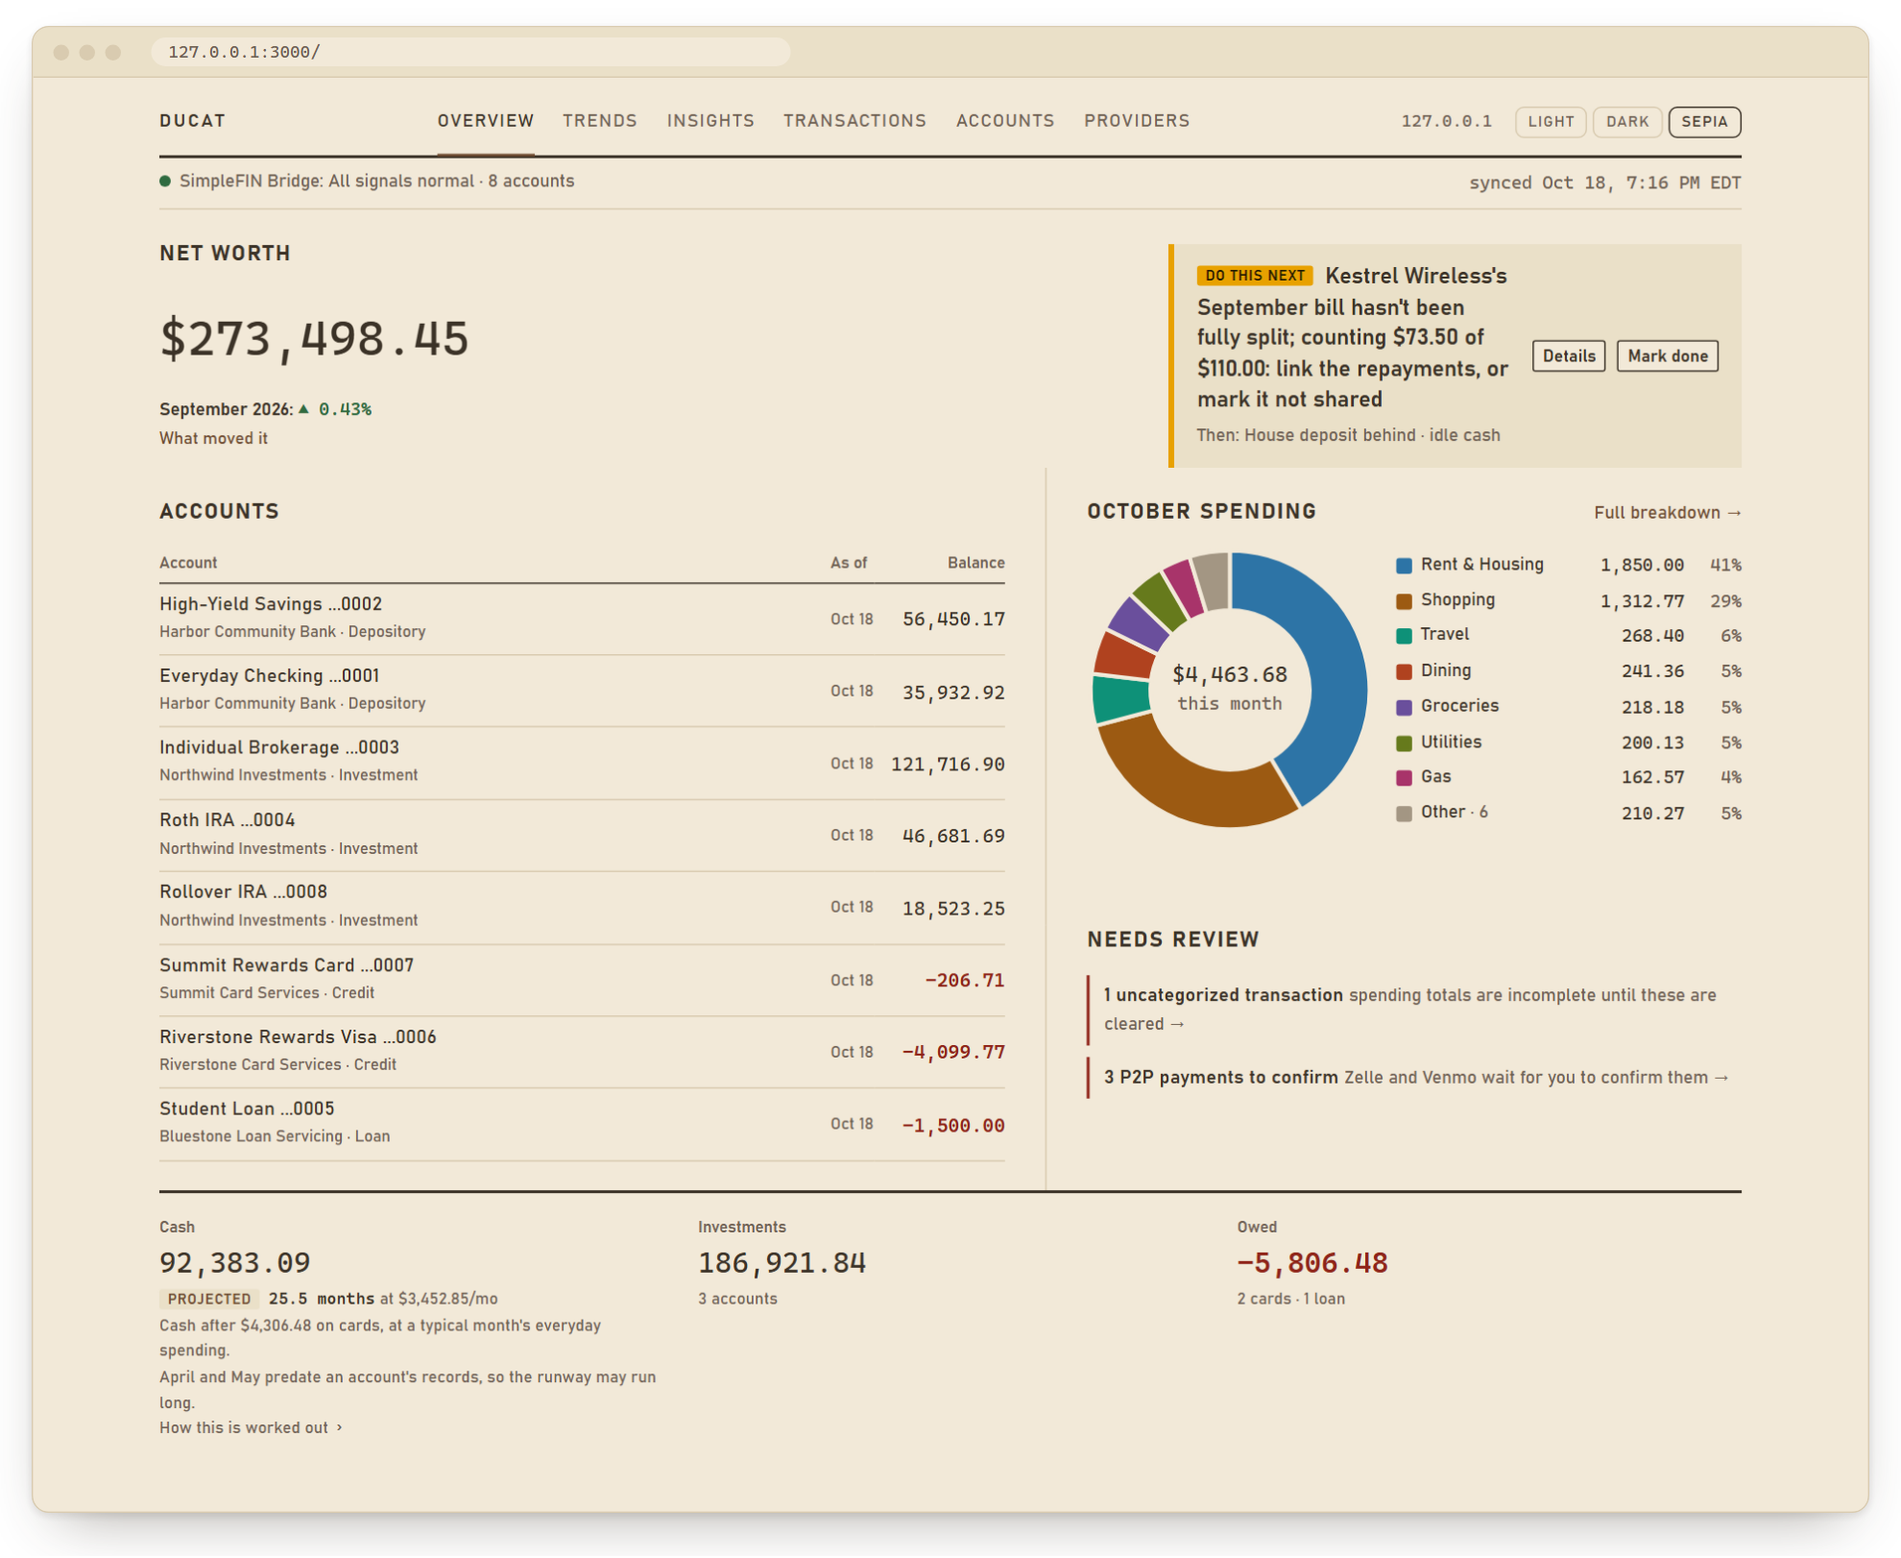
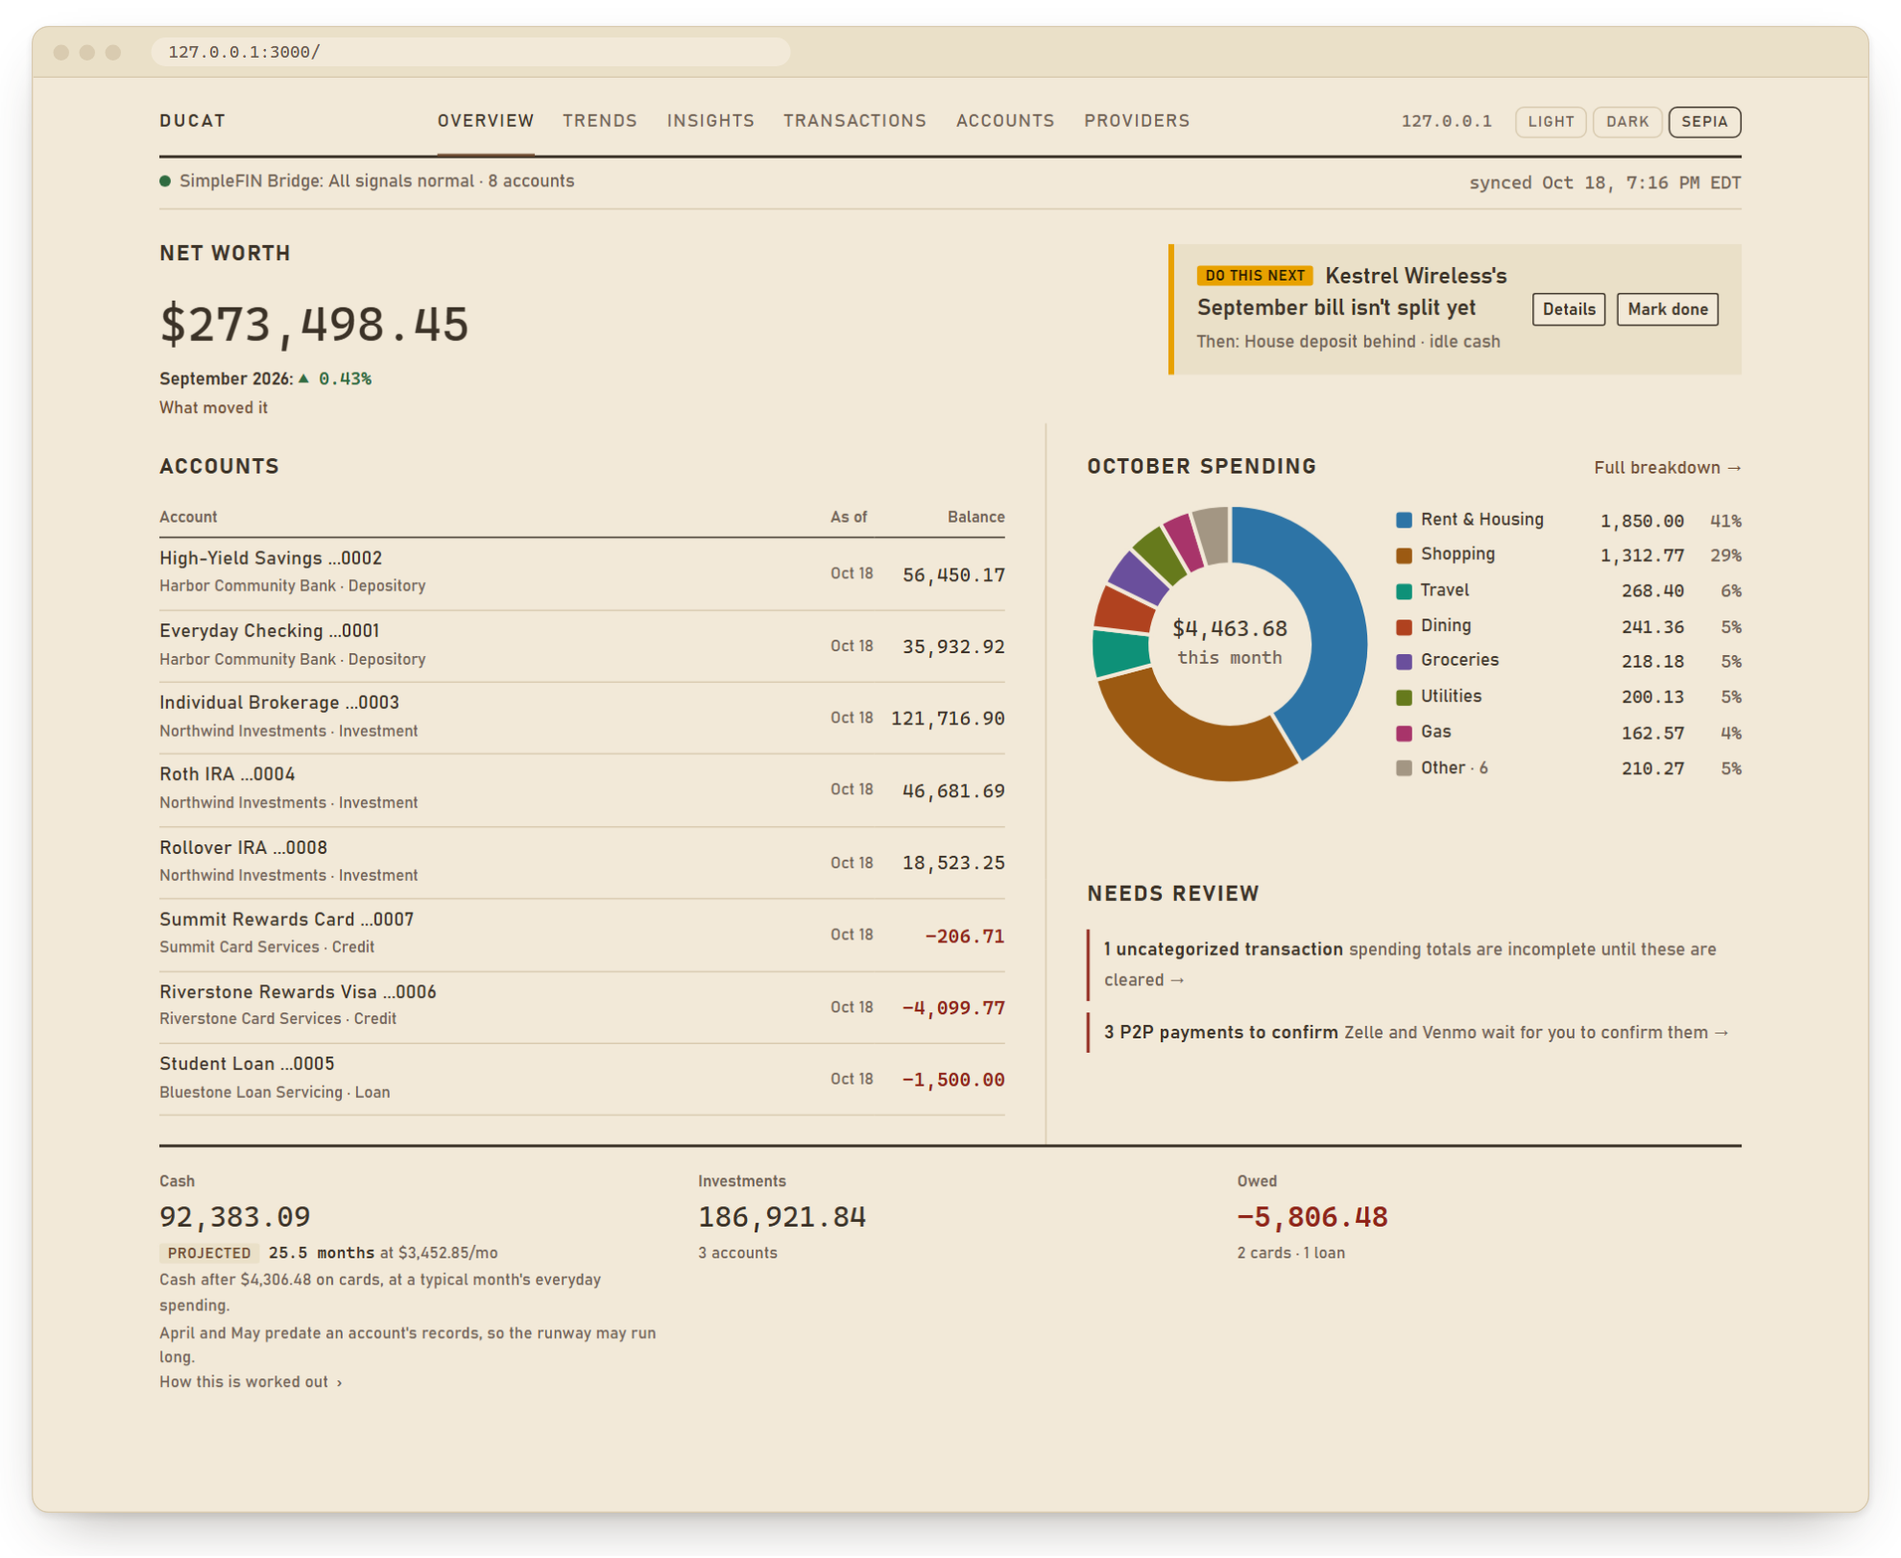
Judge a split as a part of the bill, and keep half-linked bills out of the share
From review of the shared-plans change:
- A share held as fixed dollars read every bill after a price rise as
  short, so a rise split the same way raised a false "Not split" and two
  of them ended the sharing. The sample is now each settled net as a part
  of its own bill, and the share is that part of the newest bill.
- A newest bill linked only in part entered the sample, and between two
  the larger set the share near two thirds of the bill. It now joins only
  once repaid as the sample expects; it still counts toward two repaid
  bills in a row.
- The reset after two short bills kept the last one's "repaid", so one
  repaid bill re-shared the plan. Sharing now starts over from two.
- The alert says only what is true ("hasn't been split yet"; spending
  counts it in full until the repayments are linked), and Do this next
  leads with a short line.

diff --git a/src/lib/insights/sharedPlans.ts b/src/lib/insights/sharedPlans.ts
@@ -22,11 +22,17 @@ import type { TxnData } from './types';
  *   has arrived. The newest bill with nothing linked is still waiting.
  * - A plan becomes SHARED when two settled bills in a row both had linked
  *   repayments. One repaid bill is a one-off reimbursement, not a split.
- * - A shared plan bills its SHARE: the middle of its last few settled nets,
- *   never a mean (between two, the larger, so a bill half-repaid so far never
- *   shrinks the share below what it costs).
+ * - A shared plan bills its SHARE as a PART of the bill: the middle of its
+ *   last few settled nets, each as a fraction of its own bill, never a mean
+ *   (between two, the larger), times the newest bill. A split is the same
+ *   fraction whatever the price, so a price rise split the same way stays
+ *   shared and the share follows it; dollars fixed at the old price read
+ *   every bill after a rise as short.
+ * - The newest bill joins the sample only once it is repaid as the sample
+ *   expects: half-linked so far, it would raise the share until the second
+ *   repayment lands. It still counts toward two repaid bills in a row.
  * - Fail safe: once the next bill has arrived, a bill repaid less than
- *   expected (bill less the share, within a small tolerance) is UNSPLIT. It
+ *   expected (the bill less its share, within a small tolerance) is UNSPLIT. It
  *   leaves the share's sample and is named so the operator can link the rest
  *   or say it was not shared. Two unsplit bills in a row and the plan is no
  *   longer shared: it goes back to full price with nothing to answer.
@@ -52,9 +58,9 @@ export interface PlanBill {
   repaid: number;
 }
 
-/** The middle of the recent nets; between two, the larger. */
-function middle(nets: number[]): number {
-  const s = nets.slice(-SHARE_SAMPLE).sort((a, b) => a - b);
+/** The middle of the recent parts; between two, the larger. */
+function middle(parts: number[]): number {
+  const s = parts.slice(-SHARE_SAMPLE).sort((a, b) => a - b);
   return s[Math.floor(s.length / 2)];
 }
 
@@ -64,7 +70,8 @@ function middle(nets: number[]): number {
  * charges and what is linked to each.
  */
 export function sharedPlan(bills: readonly PlanBill[]): SharedPlanPayload | null {
-  let nets: number[] = [];
+  // Each settled net as a fraction of its own bill.
+  let parts: number[] = [];
   let shared = false;
   let shortRun = 0;
   let prevSplit = false;
@@ -76,21 +83,28 @@ export function sharedPlan(bills: readonly PlanBill[]): SharedPlanPayload | null
     const split = b.repaid > 0.005;
     // The newest bill with nothing linked yet is waiting, not settled.
     if (newest && !split) break;
-    const net = round2(b.amount - b.repaid);
+    const part = b.amount > 0 ? (b.amount - b.repaid) / b.amount : 1;
+    // Repaid as the sample expects: the bill less its share, within tolerance.
+    const repaidInFull = () =>
+      parts.length > 0 && b.repaid >= b.amount * (1 - middle(parts)) - shortfallTolerance(b.amount);
 
     if (shared) {
-      const expected = b.amount - middle(nets);
       // The newest bill is never judged short: its other repayments may
       // simply not be linked yet. The next bill's arrival is what settles it.
-      const short = !newest && b.repaid < expected - shortfallTolerance(b.amount);
+      if (newest) {
+        if (repaidInFull()) parts.push(part);
+        break;
+      }
+      const short = !repaidInFull();
       if (short) {
         shortRun += 1;
         if (shortRun >= 2) {
           shared = false;
-          nets = [];
+          parts = [];
           shortRun = 0;
           unsplit = null;
-          prevSplit = split;
+          // Sharing starts over from two repaid bills, whatever this one had.
+          prevSplit = false;
           continue;
         }
         unsplit = { date: b.date, amount: round2(b.amount), repaid: round2(b.repaid) };
@@ -98,10 +112,19 @@ export function sharedPlan(bills: readonly PlanBill[]): SharedPlanPayload | null
         // An unsplit bill stays news through the next one (checked below),
         // even once that next bill has its repayments linked.
         shortRun = 0;
-        nets.push(net);
+        parts.push(part);
       }
     } else if (split) {
-      nets = prevSplit ? [...nets, net] : [net];
+      if (newest) {
+        // Two repaid in a row make it shared, but a newest bill linked only
+        // in part never sets the share: that comes from the settled ones.
+        if (prevSplit) {
+          shared = true;
+          if (repaidInFull()) parts.push(part);
+        }
+        break;
+      }
+      parts = prevSplit ? [...parts, part] : [part];
       if (prevSplit) shared = true;
     }
     prevSplit = split;
@@ -112,7 +135,7 @@ export function sharedPlan(bills: readonly PlanBill[]): SharedPlanPayload | null
   // had its cycle to be answered.
   const previous = bills.length >= 2 ? bills[bills.length - 2] : undefined;
   return {
-    share: round2(middle(nets)),
+    share: round2(middle(parts) * bills[bills.length - 1].amount),
     unsplit: unsplit !== null && previous !== undefined && unsplit.date === previous.date ? unsplit : null,
   };
 }

diff --git a/src/lib/insights/sharedPlans.test.ts b/src/lib/insights/sharedPlans.test.ts
@@ -69,11 +69,43 @@ describe("sharedPlan", () => {
     expect(s).toEqual({ share: 37, unsplit: { date: "2026-09-04", amount: BILL, repaid: 0 } });
   });
 
+  it("judges a split by its share of the bill, so a price rise split the same way stays shared and the share follows it", () => {
+    const s = sharedPlan([
+      bill("2026-07-04", 73),
+      bill("2026-08-04", 73),
+      bill("2026-09-04", 86, 129),
+      bill("2026-10-04", 86, 129),
+      bill("2026-11-04", 0, 129),
+    ]);
+    expect(s?.unsplit).toBeNull();
+    expect(s?.share).toBe(43);
+  });
+
+  it("never lets a half-repaid newest bill into the share, in either order", () => {
+    // Settled first, the newest half-repaid: the share is the settled one.
+    expect(sharedPlan([bill("2026-09-04", 2 * THIRD), bill("2026-10-04", THIRD)])?.share).toBe(37);
+    // Once shared, a half-repaid newest bill leaves the share where it was.
+    expect(sharedPlan([bill("2026-08-04", 2 * THIRD), bill("2026-09-04", 2 * THIRD), bill("2026-10-04", THIRD)])?.share).toBe(37);
+    // A settled bill half-repaid, the newest fully repaid: both are real nets,
+    // and between two the larger holds until a third settles.
+    expect(sharedPlan([bill("2026-09-04", THIRD), bill("2026-10-04", 2 * THIRD)])?.share).toBe(73.5);
+  });
+
+  it("needs two repaid bills in a row again after the sharing ended, even when the last short one was part-repaid", () => {
+    const s = sharedPlan([
+      bill("2026-05-04", 2 * THIRD),
+      bill("2026-06-04", 2 * THIRD),
+      bill("2026-07-04"),
+      bill("2026-08-04", THIRD),
+      bill("2026-09-04", 2 * THIRD),
+      bill("2026-10-04"),
+    ]);
+    expect(s).toBeNull();
+  });
+
   it("is the middle of the recent nets, never a mean, and between two the larger", () => {
     const s = sharedPlan([bill("2026-07-04", 2 * THIRD), bill("2026-08-04", 80), bill("2026-09-04", 2 * THIRD), bill("2026-10-04", 2 * THIRD)]);
     expect(s?.share).toBe(37);
-    // Two settled so far, the newest half-repaid: the share does not shrink below what is owed.
-    expect(sharedPlan([bill("2026-09-04", 2 * THIRD), bill("2026-10-04", THIRD)])?.share).toBe(73.5);
   });
 });
 
@@ -188,8 +220,8 @@ describe("the Not split alert", () => {
   it("reads as the operator agreed, with Link repayments and Not shared this month", () => {
     const { shown } = recurringAlerts(livePlans([charge], NO_DECISIONS, NOW), NO_DECISIONS, NOW);
     const alert = shown.find((a) => a.kind === "Not split");
-    expect(alert?.text).toBe("Parcel Mobile's September bill hasn't been split; counting the full $110.00");
-    expect(alert?.detail).toBe("Billed Sep 4, your share ~$37 of $110 as usual");
+    expect(alert?.text).toBe("Parcel Mobile's September bill hasn't been split yet");
+    expect(alert?.detail).toBe("Spending counts it in full until the repayments are linked · your share ~$37 of $110");
     expect(alert?.actions).toEqual([
       { label: "Link repayments", href: "/transactions?flow=INFLOW&period=2026-09..2026-10" },
       { label: "Not shared this month", choice: "unshared" },
@@ -203,9 +235,9 @@ describe("the Not split alert", () => {
     rows.push(txn({ date: utc(2026, 9, 6), amount: THIRD, description: "ZELLE FROM ALEX", normalizedMerchant: "zelle alex", categoryId: null, categoryName: null, reimbursesId: sept.id }));
     const part = { ...detectRecurringCharges(rows).get("parcel mobile")!, accountThrough: "2026-10-18" };
     const { shown } = recurringAlerts(livePlans([part], NO_DECISIONS, NOW), NO_DECISIONS, NOW);
-    expect(shown.find((a) => a.kind === "Not split")?.text).toBe(
-      "Parcel Mobile's September bill hasn't been fully split; counting $73.50 of $110.00",
-    );
+    const alert = shown.find((a) => a.kind === "Not split");
+    expect(alert?.text).toBe("Parcel Mobile's September bill is only part split");
+    expect(alert?.detail).toBe("Spending counts $73.50 of it until the rest is linked · your share ~$37 of $110");
   });
 
   it("Not shared this month records the bill, and the alert is gone", () => {
@@ -249,9 +281,8 @@ describe("the Not split alert", () => {
     };
     const nudges = nudgeCandidates(none);
     const split = nudges.find((n) => n.key.startsWith("recurring:unsplit|"));
-    expect(split?.text).toBe(
-      "Parcel Mobile's September bill hasn't been split; counting the full $110.00: link the repayments, or mark it not shared",
-    );
+    expect(split?.text).toBe("Parcel Mobile's September bill isn't split yet");
+    expect(split?.short).toBe("Parcel Mobile not split");
     expect(split?.kind).toBe("recurring");
     expect(split?.order).toBeGreaterThan(7);
   });

diff --git a/src/lib/ui/recurringAlerts.ts b/src/lib/ui/recurringAlerts.ts
@@ -24,6 +24,8 @@ export interface RecurringAlert {
   daysAway: number | null;
   /** The plan's last charge ("2026-10-03"): a newer one is new data about it. */
   lastDate: string;
+  /** Not split: the day of the bill it is about. */
+  bill?: string;
 }
 
 const MONTH_NAMES = ["January", "February", "March", "April", "May", "June", "July", "August", "September", "October", "November", "December"];
@@ -113,16 +115,20 @@ export function recurringAlerts(
     const unsplit = missed === null ? notSplitNews(plan, d) : null;
     if (unsplit !== null && plan.shared !== undefined) {
       const bill = new Date(`${unsplit.date}T12:00:00Z`);
+      // Literally true: SPENDING counts the bill less what was repaid; the
+      // subscription figures keep billing the share.
       const counted = Math.round((unsplit.amount - unsplit.repaid) * 100) / 100;
+      const month = MONTH_NAMES[bill.getUTCMonth()];
+      const share = yourShare(plan.shared.share, priceNow(plan));
       all.push({
         id: `unsplit|${plan.merchant}|${unsplit.date}`,
         plan: plan.merchant,
         kind: "Not split",
-        text:
+        text: unsplit.repaid > 0 ? `${name}'s ${month} bill is only part split` : `${name}'s ${month} bill hasn't been split yet`,
+        detail:
           unsplit.repaid > 0
-            ? `${name}'s ${MONTH_NAMES[bill.getUTCMonth()]} bill hasn't been fully split; counting ${money(counted)} of ${money(unsplit.amount)}`
-            : `${name}'s ${MONTH_NAMES[bill.getUTCMonth()]} bill hasn't been split; counting the full ${money(unsplit.amount)}`,
-        detail: `Billed ${shortDate(bill)}, ${yourShare(plan.shared.share, unsplit.amount)} as usual`,
+            ? `Spending counts ${money(counted)} of it until the rest is linked · ${share}`
+            : `Spending counts it in full until the repayments are linked · ${share}`,
         actions: [
           { label: "Link repayments", href: linkRepaymentsHref(unsplit.date) },
           { label: "Not shared this month", choice: "unshared" },
@@ -130,6 +136,7 @@ export function recurringAlerts(
         stake,
         daysAway: null,
         lastDate: plan.lastDate,
+        bill: unsplit.date,
       });
     }
   }

diff --git a/src/lib/ui/nextAction.ts b/src/lib/ui/nextAction.ts
@@ -177,10 +177,13 @@ export function nudgeCandidates(s: NudgeSources): Nudge[] {
 
   for (const a of s.recurring) {
     if (a.kind === "Not split") {
+      // Short: the alert on Recurring charges carries the detail and the two
+      // answers, one tap away on Details.
+      const month = a.bill === undefined ? "last" : monthLabel(a.bill.slice(0, 7)).split(" ")[0];
       out.push({
         key: `recurring:${a.id}`,
         kind: "recurring",
-        text: `${a.text}: link the repayments, or mark it not shared`,
+        text: `${titleCase(a.plan)}'s ${month} bill isn't split yet`,
         short: `${titleCase(a.plan)} not split`,
         href: "/insights#recurring-charges",
         asOf: Date.parse(`${a.lastDate}T12:00:00Z`),

diff --git a/docs/conventions/goals-and-insights.md b/docs/conventions/goals-and-insights.md
@@ -813,8 +813,16 @@ contract: rule line in CLAUDE.md, evidence here, never both in one place.
   bill is settled once something is linked, or once the next bill arrives;
   two settled bills in a row with links make a plan shared, one does not (a
   one-off reimbursement); the share is the middle of the last three settled
-  nets, the larger between two, so a bill half-repaid so far never shrinks
-  it. Fail safe: the newest bill counts at the share while it waits, and
+  nets, each as a PART of its own bill (the larger between two), times the
+  newest bill. Review found three holes, each now pinned: dollars fixed at
+  the old price read every bill after a rise as short (a $110 plan rising
+  to $129, repaid $43 + $43, raised a false alert, and two of them ended
+  the sharing); a newest bill linked only in part entered the sample, and
+  between two the larger set the share near two thirds of the bill until
+  the second repayment landed; and the reset after two short bills kept the
+  last bill's "repaid", so one repaid bill re-shared the plan. The wording
+  is literally true: only SPENDING counts an unsplit bill in full, while
+  the subscription figures keep the share. Fail safe: the newest bill counts at the share while it waits, and
   once the next one is in, a bill repaid less than bill less share (within
   $1 or 2%) leaves the sample, counts at the bill less what WAS repaid, and
   raises "Not split" with Link repayments (the ledger's money in over that

diff --git a/.claude/rules/goals-and-insights.md b/.claude/rules/goals-and-insights.md
@@ -39,8 +39,9 @@ anything below; several entries record "tried and failed, don't retry".
 - A SHARED plan is read from repayments LINKED to its bills, never a typed
   share (insights/sharedPlans.ts, one pure function in the detector, carried
   as RecurringChargePayload.shared): two settled bills in a row repaid makes
-  it shared, its share the MIDDLE of recent settled nets, and every figure
-  reads it through costNow (priceNow stays the bill). Once the next bill
+  it shared, its share the MIDDLE of recent settled nets as a PART of each
+  bill (so a rise split alike stays shared), a half-linked newest bill never
+  in it, and every figure reads it through costNow (priceNow stays the bill). Once the next bill
   arrives a short one counts at bill less repaid and asks "Not split" (Link
   repayments, Not shared this month: decision `unshared`, by bill day); two
   short in a row end the sharing silently. Spending is never netted twice.
